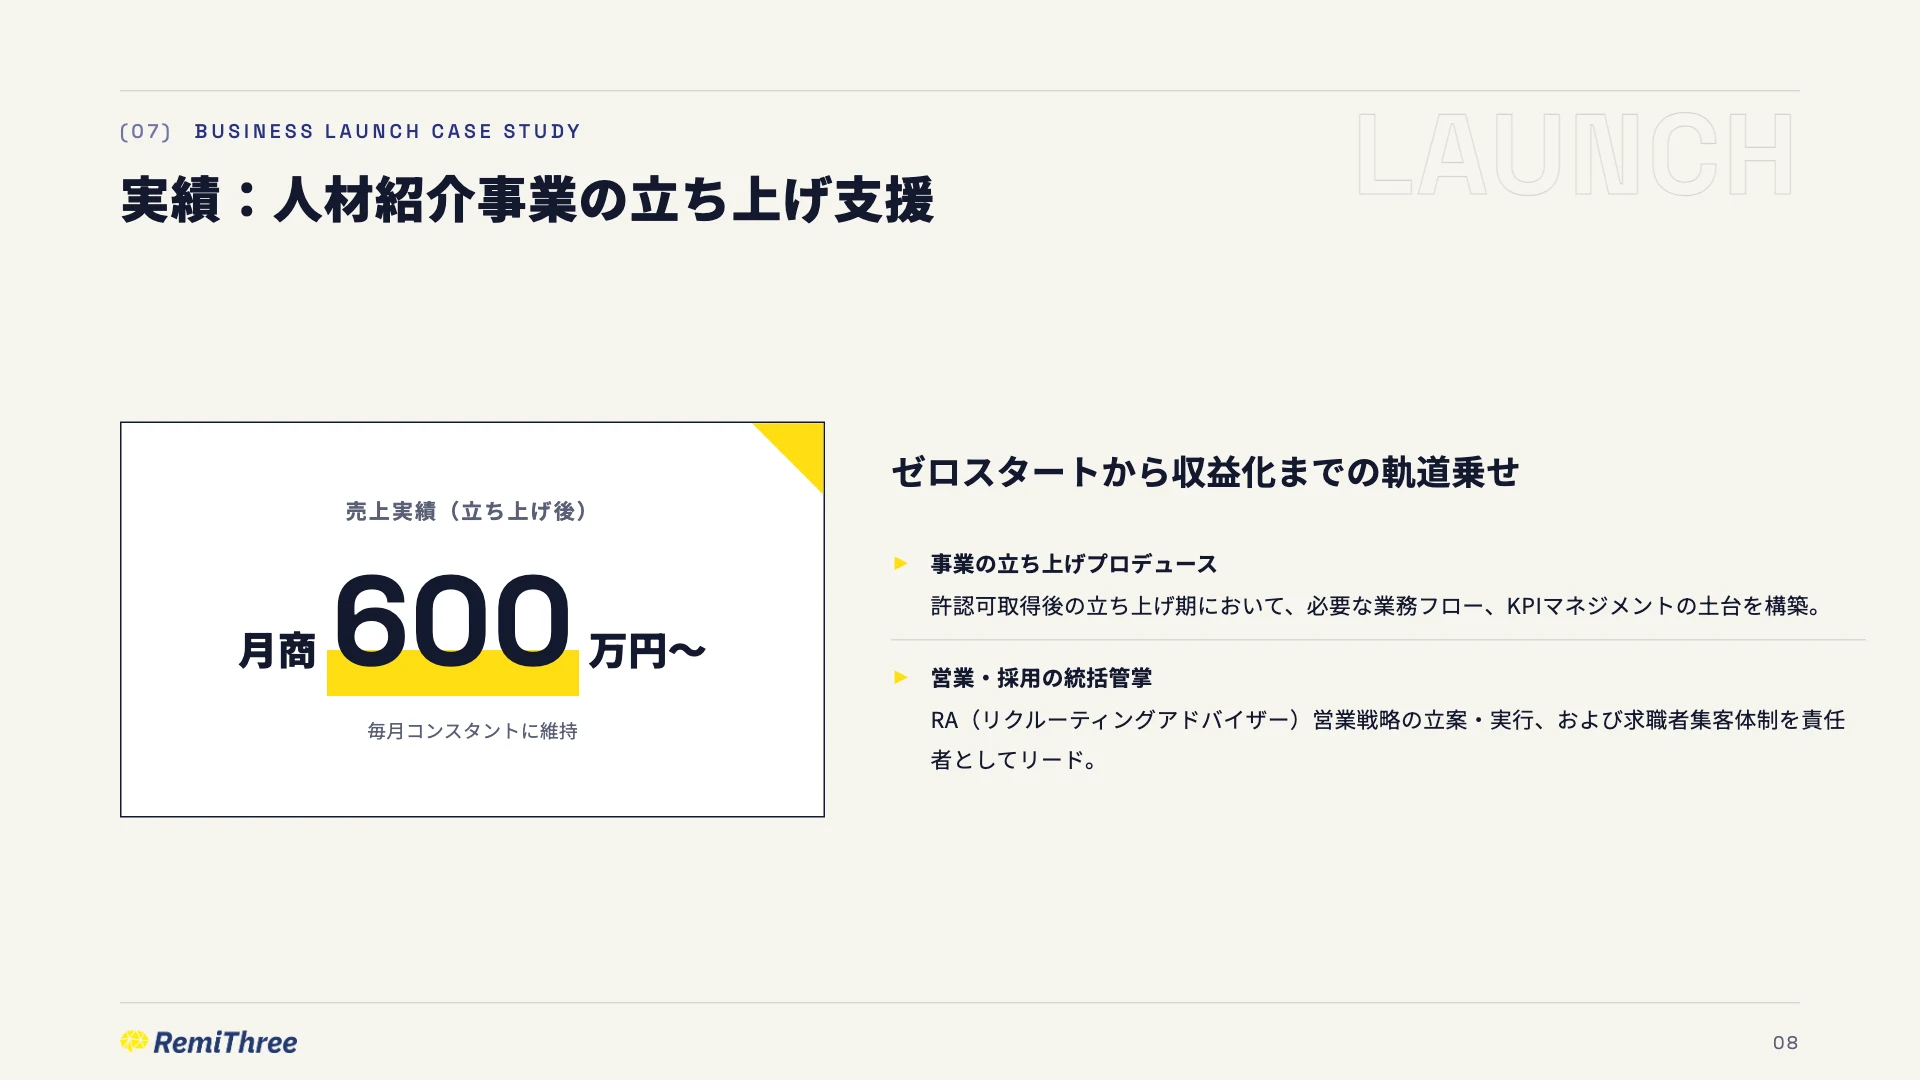
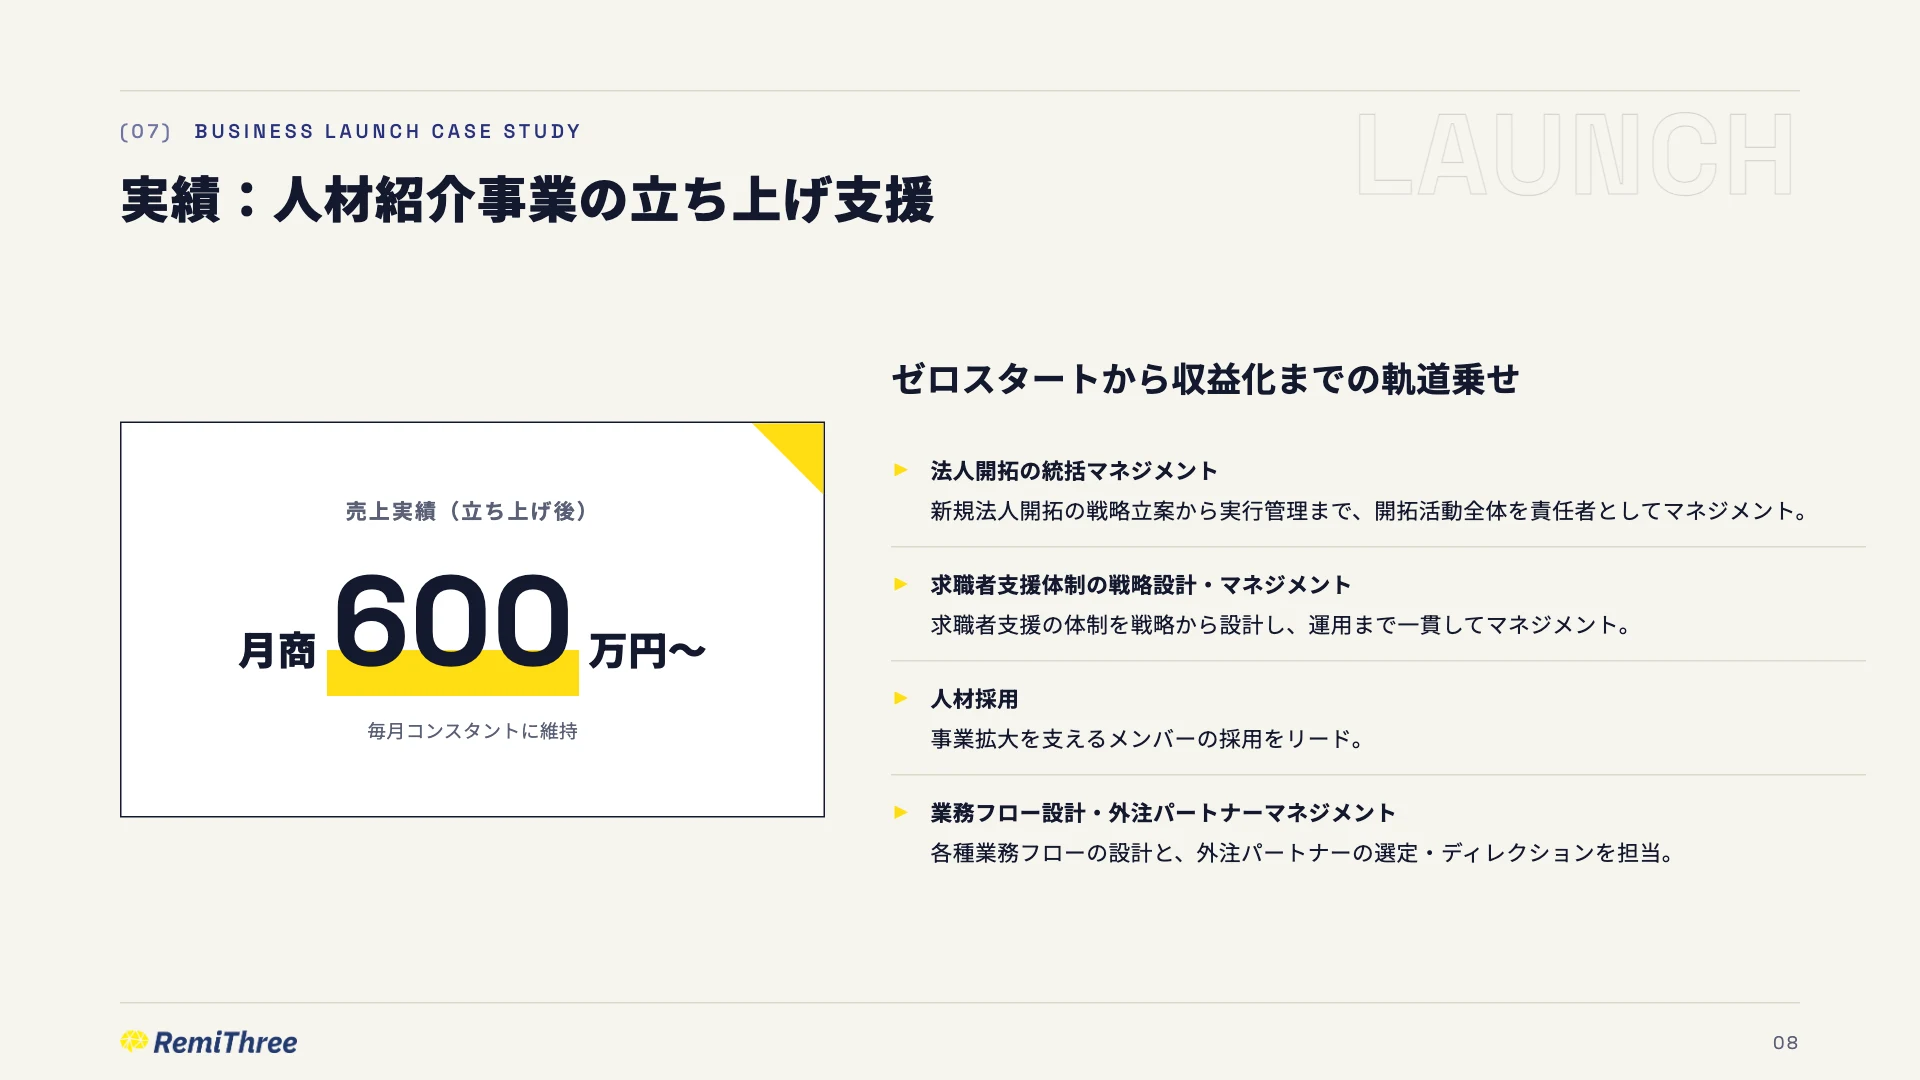
Deck: scope launch case study to actual work, remove phone number
- 人材紹介立ち上げ実績を実施範囲に修正（法人開拓の統括マネジメント／求職者支援体制の
  戦略設計・マネジメント／人材採用／業務フロー設計・外注パートナーマネジメント）。
  マーケティング・許認可手続きに関する記載を削除
- 代表略歴からも「マーケティング」を除去
- CONTACTスライドから電話番号を削除
- ビューア画像を再生成

Claude-Session: https://claude.ai/code/session_01VcJ5tTUF9qqugXbNptTr8g

Changed region(s): [[0.4688, 0.3972, 0.9688, 0.7944], [0.4688, 0.3361, 0.8125, 0.3667]]

diff --git a/intro.html b/intro.html
@@ -600,7 +600,7 @@
         </tr>
         <tr>
           <td>2021.04 - 現在</td>
-          <td><strong>WEBマーケティングコンサル企業</strong>：新規事業推進、マーケティング、営業、採用。</td>
+          <td><strong>WEBマーケティングコンサル企業</strong>：新規事業推進、営業、採用。</td>
         </tr>
       </tbody>
     </table>
@@ -671,7 +671,6 @@
     <p class="contact-en">CONTACT</p>
     <div class="contact-rows">
       <div class="row"><span class="k">NAME</span><span class="v">山内 陸也 / Rikuya Yamauchi</span></div>
-      <div class="row"><span class="k">TEL</span><span class="v">090-7076-0251</span></div>
       <div class="row"><span class="k">MAIL</span><span class="v">rikuya.yamauchi@remithree.com</span></div>
       <div class="row"><span class="k">WEB</span><span class="v"><a href="https://remithree.com/" target="_blank">https://remithree.com/</a></span></div>
     </div>
